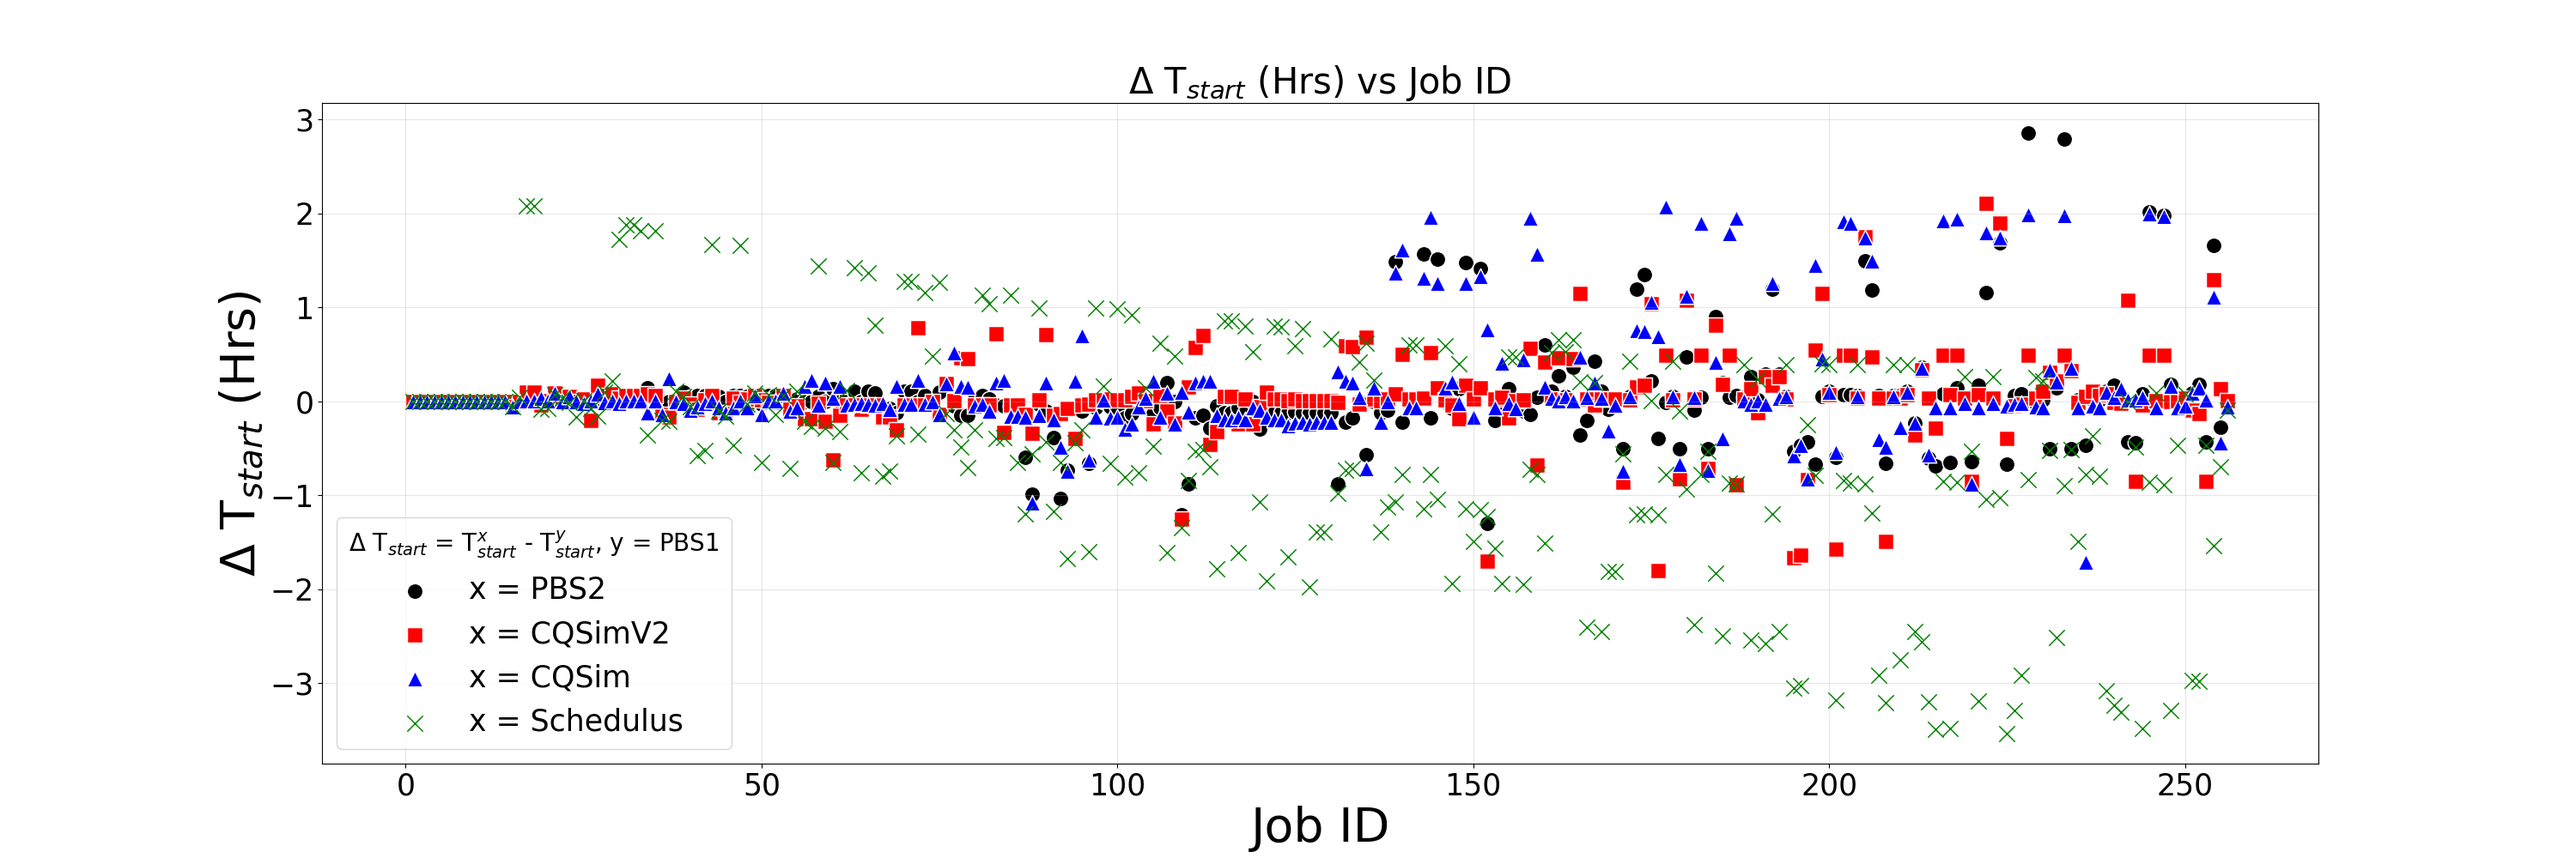
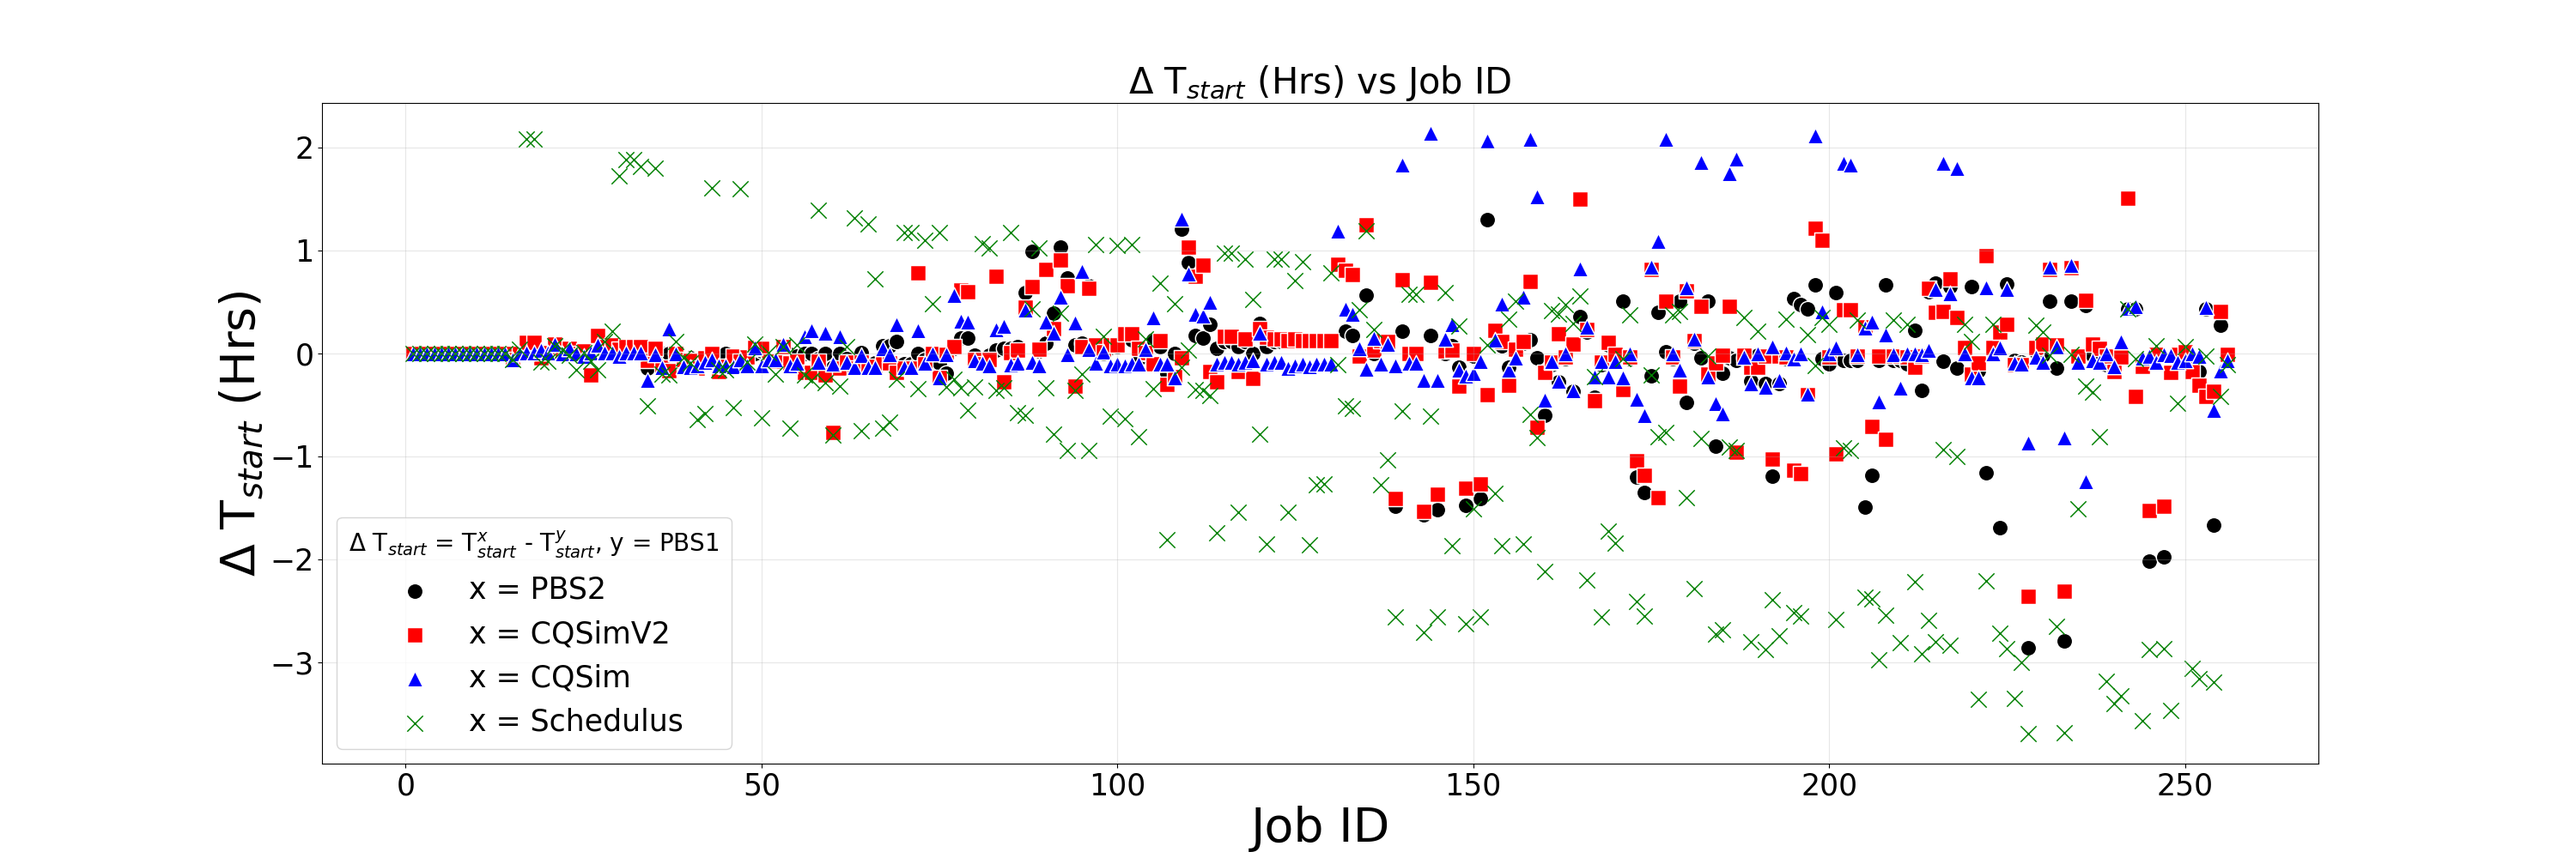
run event deviation

diff --git a/validation/validation.py b/validation/validation.py
@@ -59,22 +59,22 @@ cqsim_r.to_csv('parsed_cqsim.csv',  index=False)
 cqsim2_r.to_csv('parsed_cqsim2.csv',  index=False)
 
 # Calcluate the delta between run events w.r.t to pbs1
-pbs2_d = pd.merge(pbs2_r, pbs1_r, on='id')
+pbs2_d = pd.merge(pbs1_r, pbs2_r, on='id')
 pbs2_d['delta'] = pbs2_d['time_x'] - pbs2_d['time_y']
 pbs2_d['delta'] = (pbs2_d['delta']/3600)
 pbs2_d['delta_abs'] = abs(pbs2_d['delta'])
 
-cqsim_d = pd.merge(cqsim_r, pbs1_r, on='id')
+cqsim_d = pd.merge(cqsim_r, pbs2_r, on='id')
 cqsim_d['delta'] = cqsim_d['time_x'] - cqsim_d['time_y']
 cqsim_d['delta'] = (cqsim_d['delta']/3600)
 cqsim_d['delta_abs'] = abs(cqsim_d['delta'])
 
-schedulus_d = pd.merge(schedulus_r, pbs1_r, on='id')
+schedulus_d = pd.merge(schedulus_r, pbs2_r, on='id')
 schedulus_d['delta'] = schedulus_d['time_x'] - schedulus_d['time_y']
 schedulus_d['delta'] = (schedulus_d['delta']/3600)
 schedulus_d['delta_abs'] = abs(schedulus_d['delta'])
 
-cqsim2_d = pd.merge(cqsim2_r, pbs1_r, on='id')
+cqsim2_d = pd.merge(cqsim2_r, pbs2_r, on='id')
 cqsim2_d['delta'] = cqsim2_d['time_x'] - cqsim2_d['time_y']
 cqsim2_d['delta'] = (cqsim2_d['delta']/3600)
 cqsim2_d['delta_abs'] = abs(cqsim2_d['delta'])
